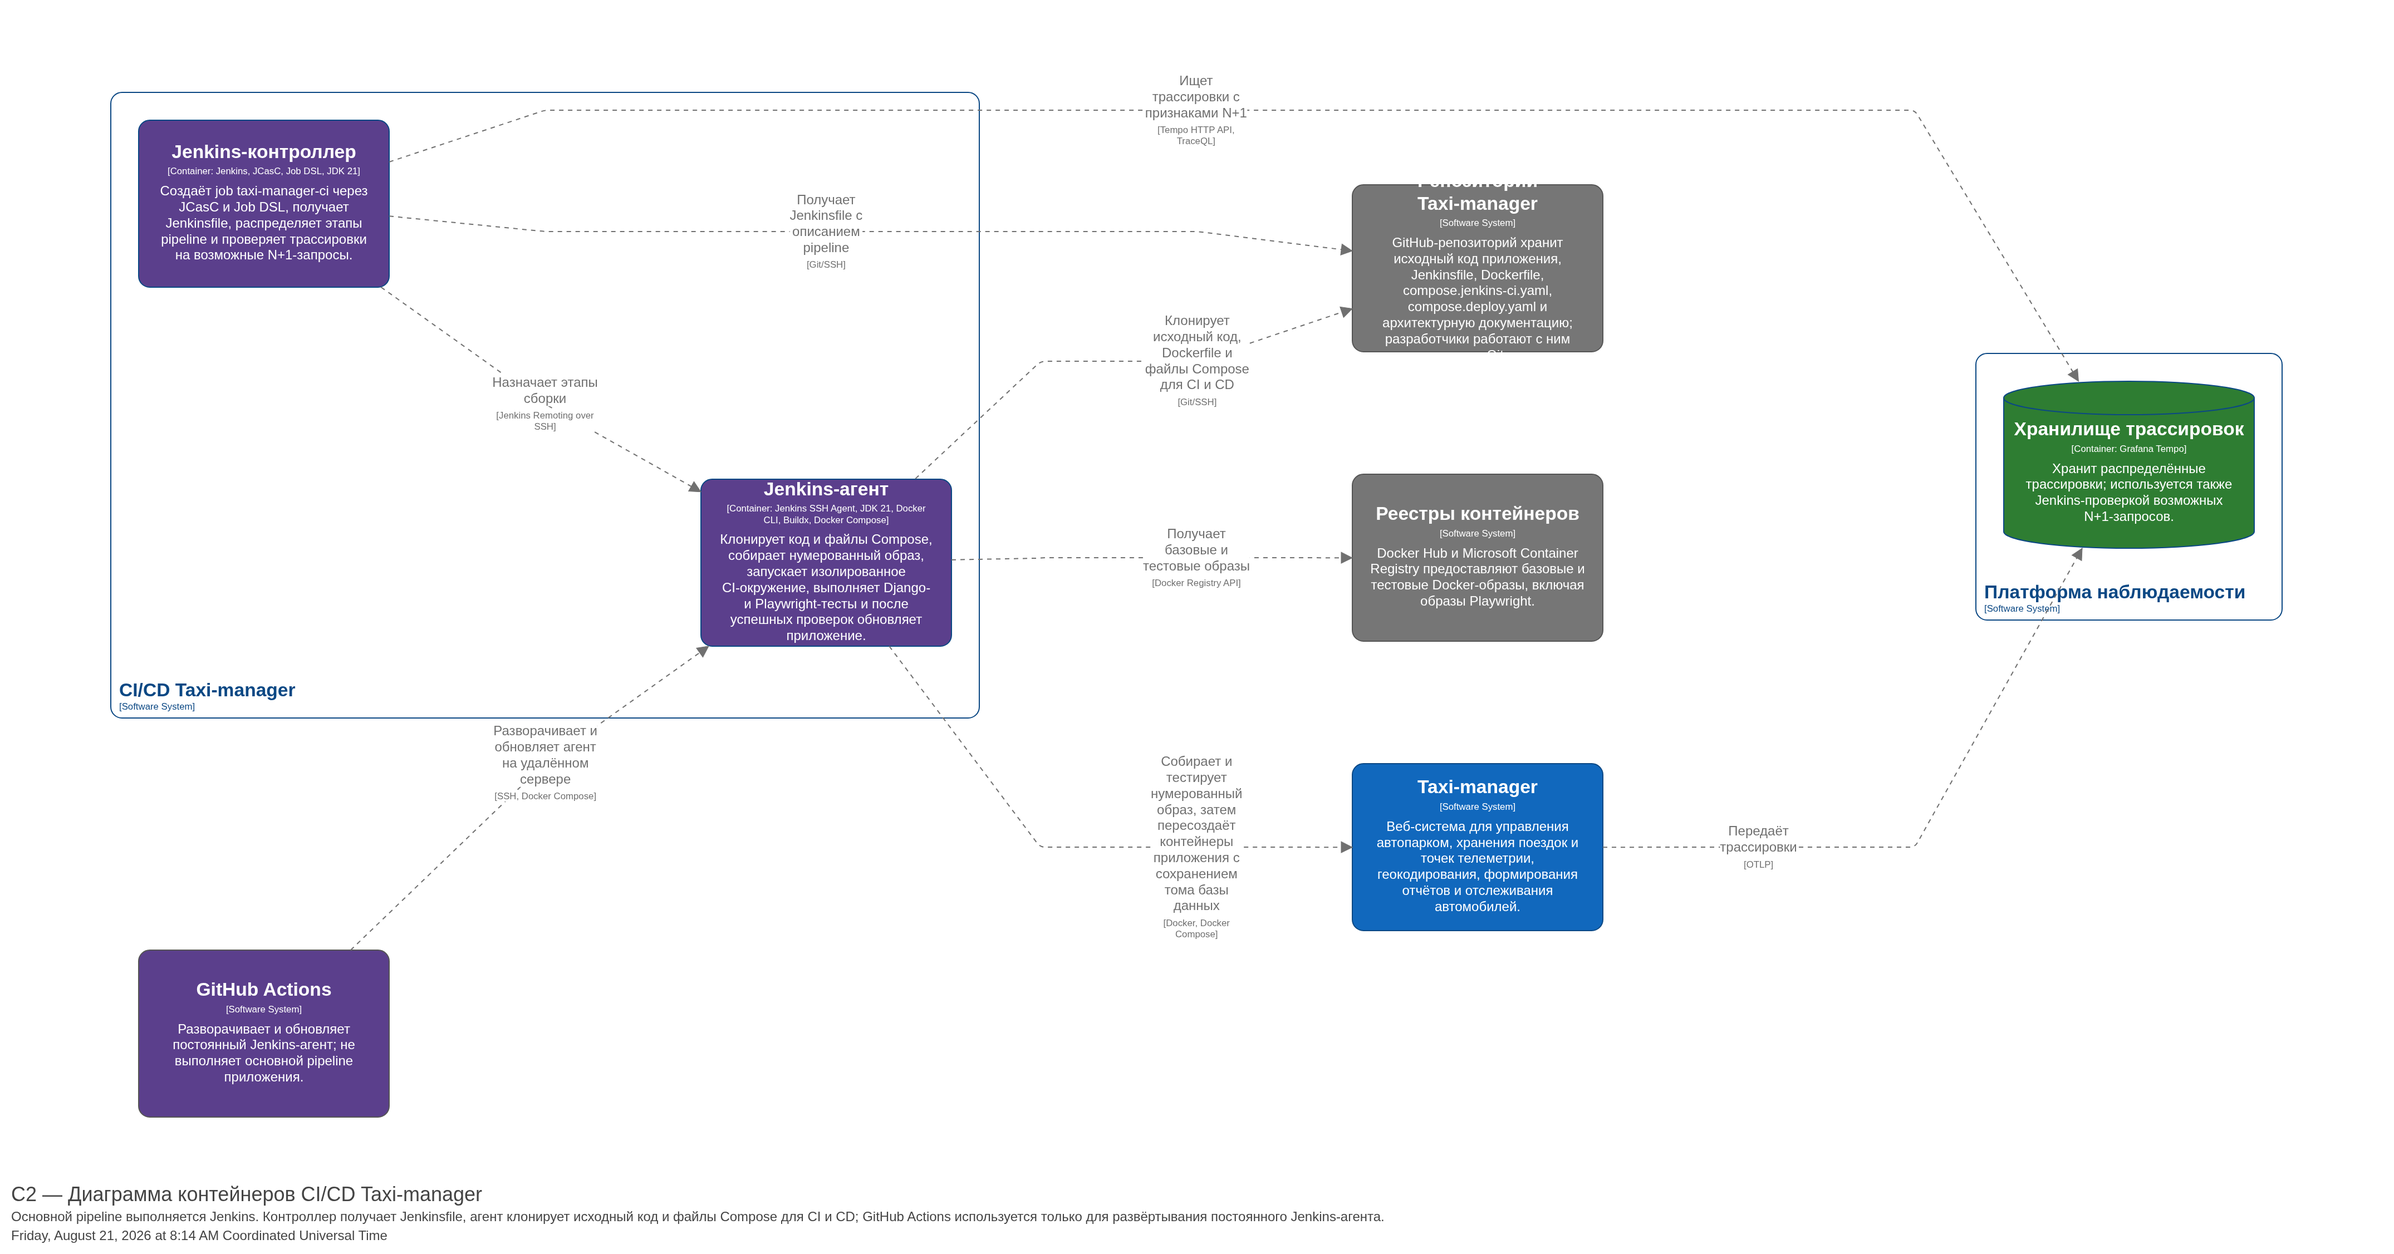
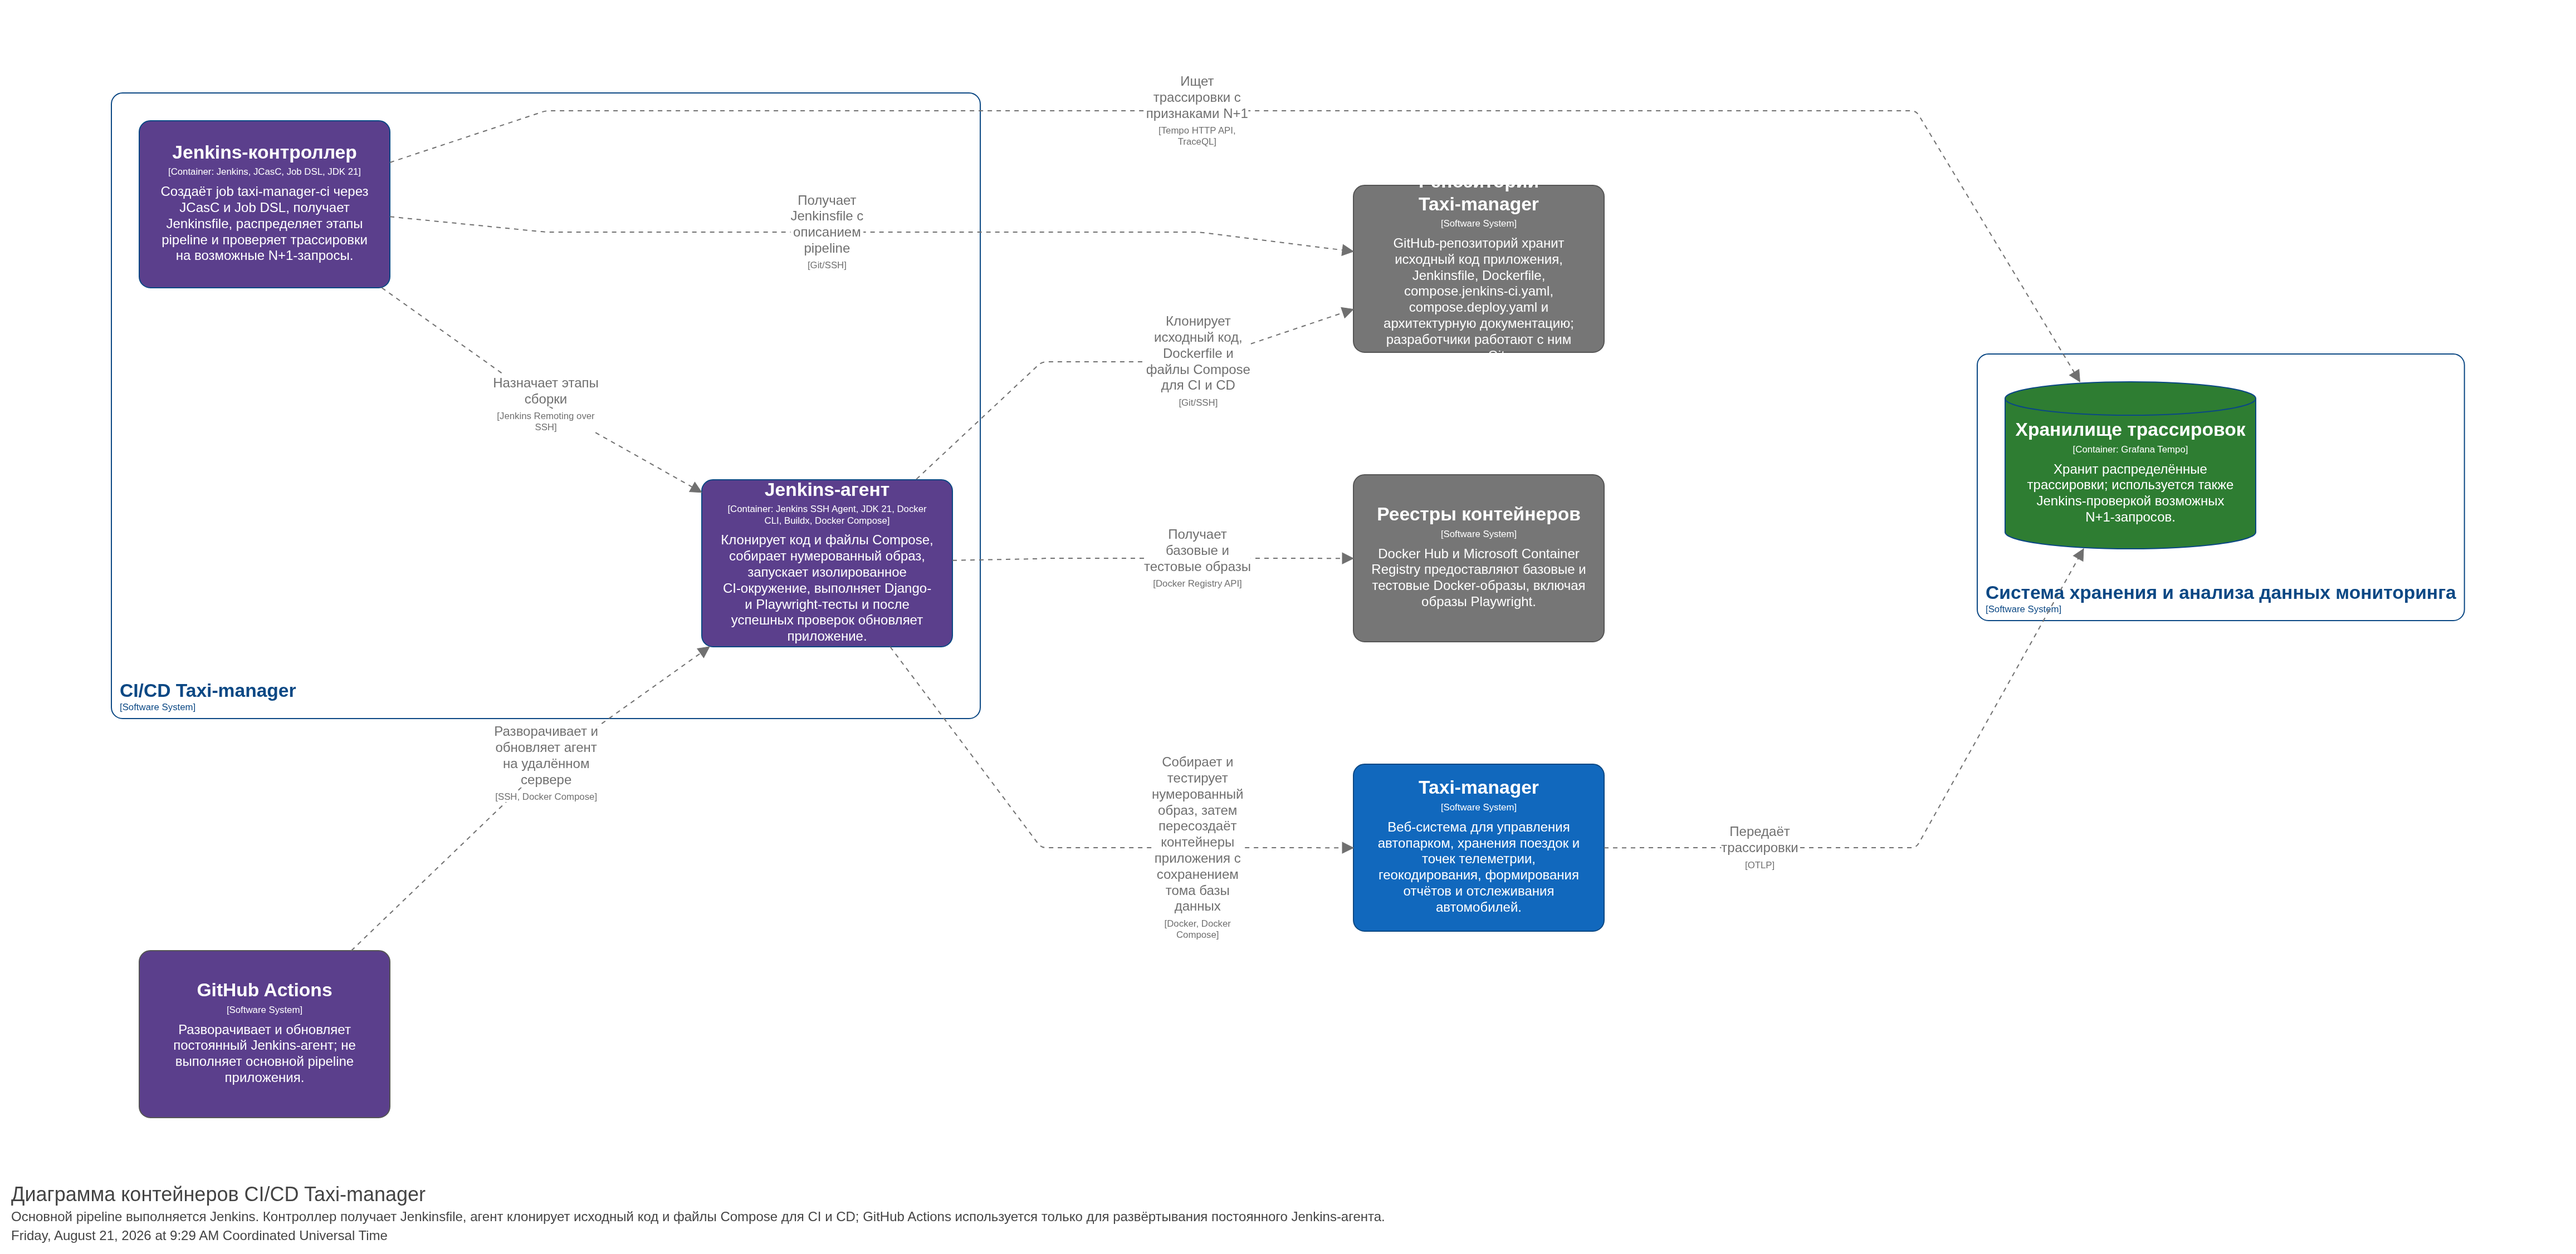
Правка C4 и README

diff --git a/docs/architecture/README.md b/docs/architecture/README.md
@@ -7,7 +7,7 @@
 - `workspace.dsl` — точка входа Structurizr;
 - `model/taxi-manager.dsl` — элементы и связи работающего приложения;
 - `model/notifications.dsl` и `views/notifications.dsl` — подключаемая система уведомлений менеджеров, её C1, C2 и сценарий формирования уведомления;
-- `model/observability.dsl` и `views/observability.dsl` — платформа наблюдаемости и её представления;
+- `model/observability.dsl` и `views/observability.dsl` — система хранения и анализа данных мониторинга и её представления;
 - `model/ci-cd.dsl` и `views/ci-cd.dsl` — Jenkins-конвейер, его представления и сценарий выполнения;
 - `model/deployment.dsl` и `views/deployment.dsl` — варианты физического развёртывания;
 - `views/taxi-manager.dsl` — C1, C2 и ключевые сценарии основной системы;
